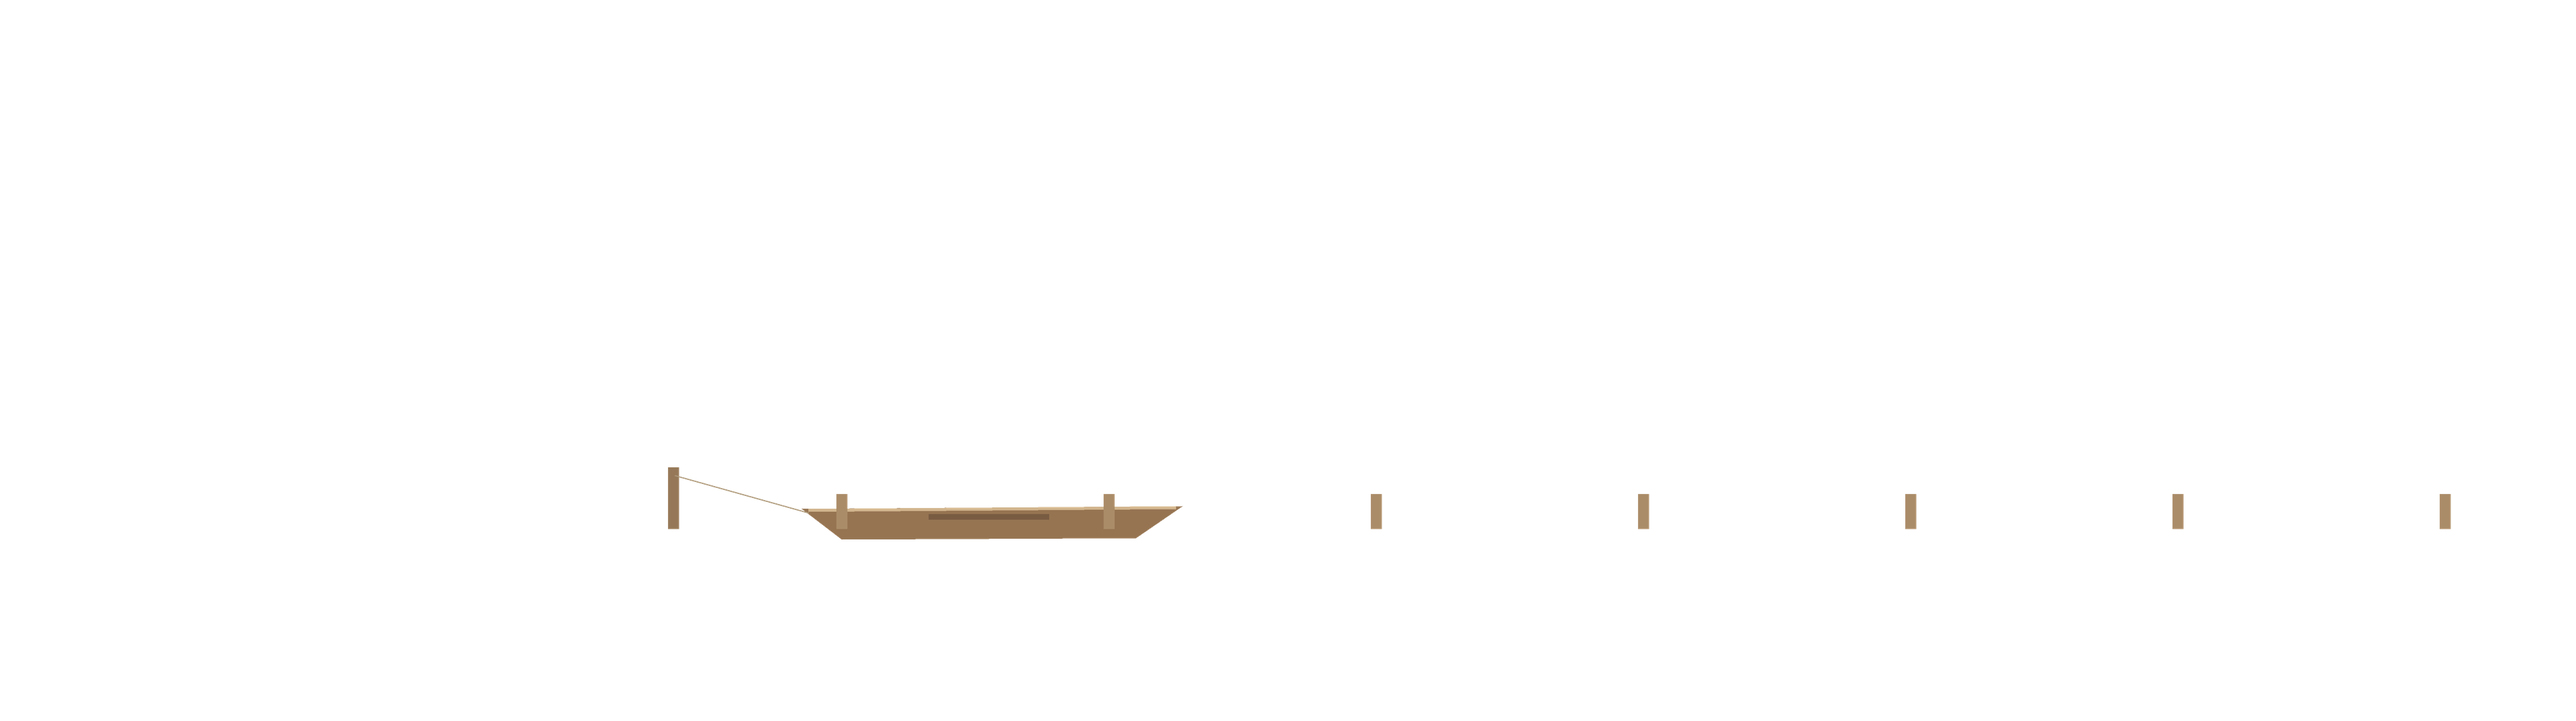
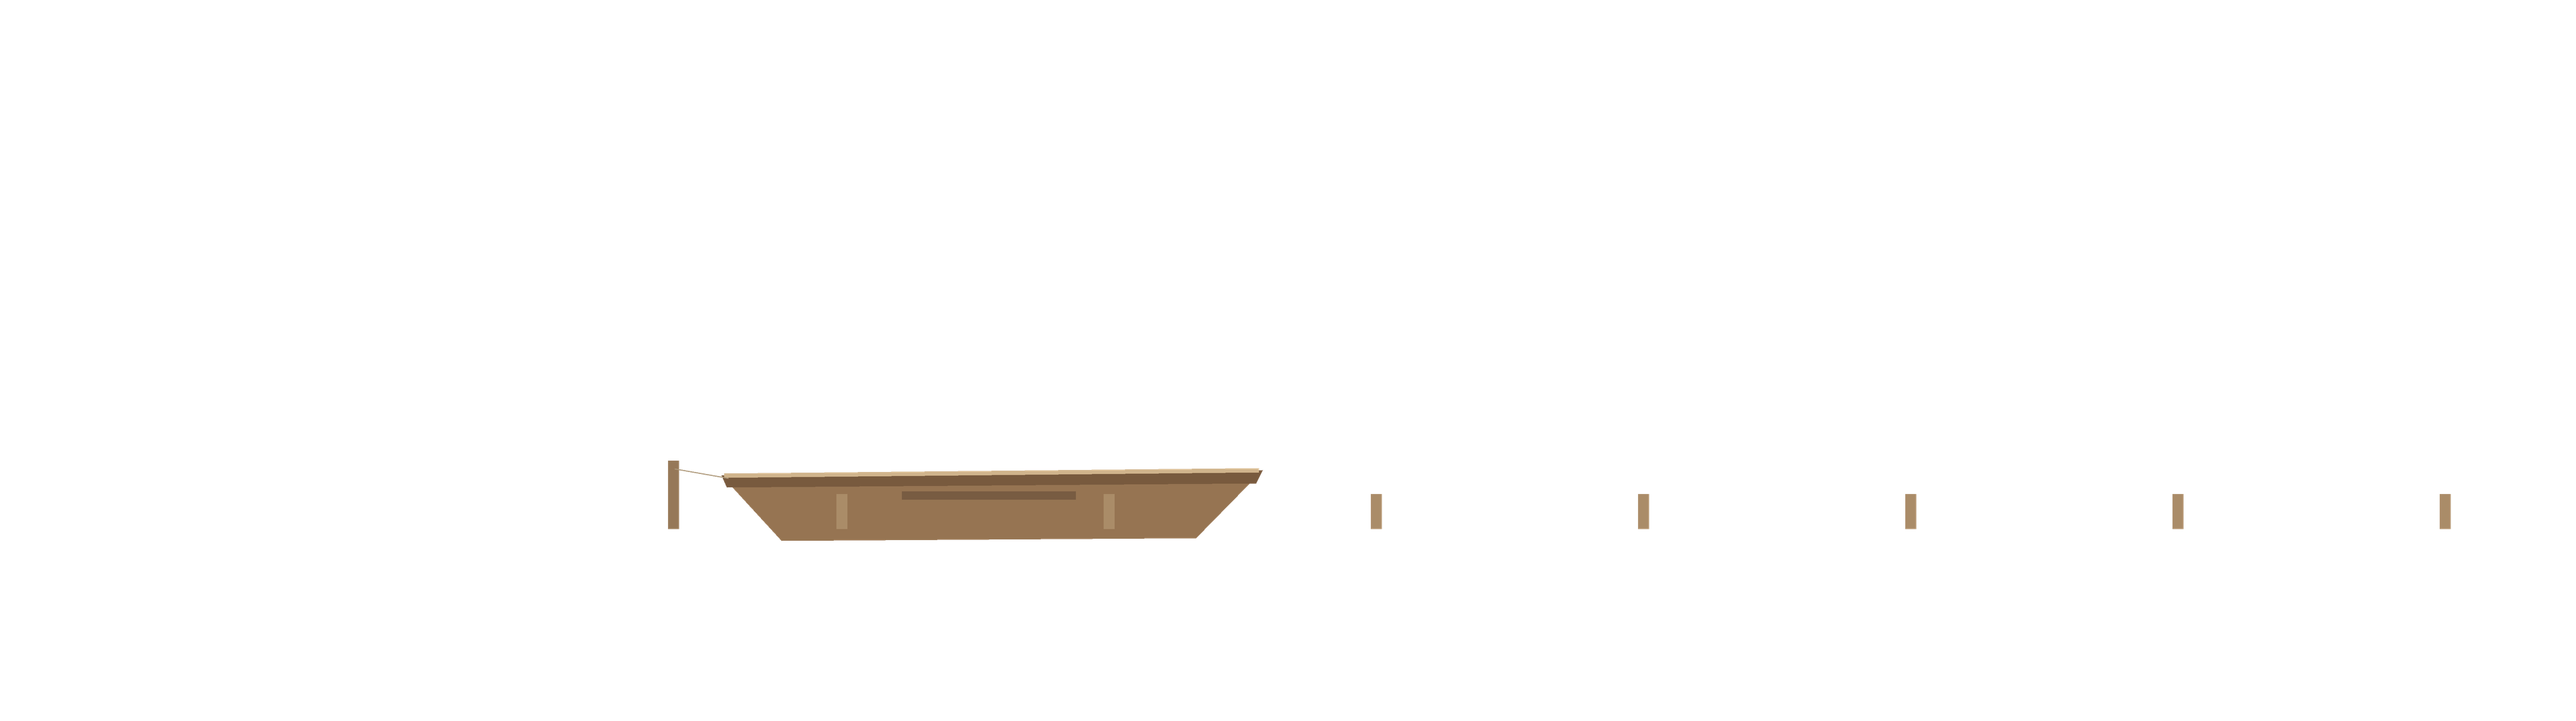
나루터 배를 셋이 탈 만한 크기로 키움
- placeholder 나루터 배(bg_ferry_props)와 말뚝·밧줄 위치 조정
- 7-6 배 타기(boat_ride.gd) 선체·뱃전·물그림자를 같은 크기로

Changed region(s): [[0.2801, 0.6417, 0.4979, 0.7639]]

diff --git a/tools/placeholder_art.py b/tools/placeholder_art.py
@@ -1049,11 +1049,13 @@ def ferry(width: float, markers: dict[str, float]) -> dict[str, Layer]:
     w = layer_width(width, "props")
     layers["props"] = L = Layer(w)
     bx = mk("7-3", 1220) + 260
-    L.poly([(bx - 280, 762), (bx + 290, 758), (bx + 220, 806), (bx - 220, 808)], rgba(150, 116, 82))  # 나룻배
-    L.line([(bx - 270, 764), (bx + 280, 760)], rgba(208, 180, 140), 5)
-    L.rect(bx - 90, 770, bx + 90, 778, rgba(120, 92, 66))
-    L.rect(dock_x + 40, 700, dock_x + 56, 792, rgba(150, 120, 88))  # 말뚝
-    L.line([(dock_x + 50, 712), (bx - 270, 768)], rgba(170, 150, 120), 2)  # 밧줄
+    # 나룻배: 셋(할아버지·하윤·하늘이)이 앉을 만큼. 2026-11-21 "배가 작다"는 피드백으로 폭 570 → 800, 높이 50 → 100.
+    L.poly([(bx - 400, 712), (bx + 410, 704), (bx + 310, 806), (bx - 310, 810)], rgba(150, 116, 82))  # 나룻배
+    L.poly([(bx - 400, 712), (bx + 410, 704), (bx + 400, 724), (bx - 392, 730)], rgba(120, 90, 62))  # 안쪽 그늘
+    L.line([(bx - 396, 712), (bx + 404, 704)], rgba(208, 180, 140), 7)  # 뱃전
+    L.rect(bx - 130, 736, bx + 130, 748, rgba(120, 92, 66))  # 가로 널(앉는 자리)
+    L.rect(dock_x + 40, 690, dock_x + 56, 792, rgba(150, 120, 88))  # 말뚝
+    L.line([(dock_x + 50, 702), (bx - 390, 716)], rgba(170, 150, 120), 2)  # 밧줄
     for x in range(int(dock_x + 300), int(w), 400):
         L.rect(x - 8, 740, x + 8, 792, rgba(170, 140, 104))
 
